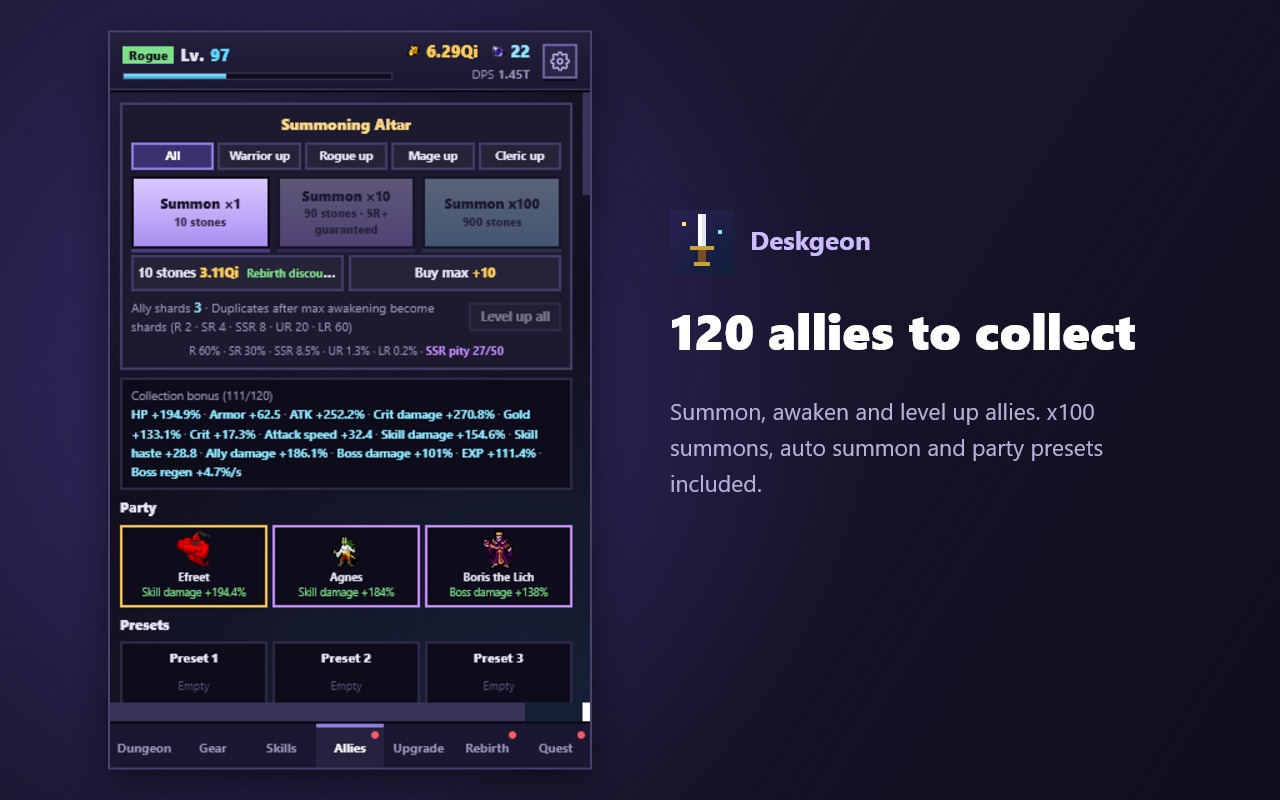
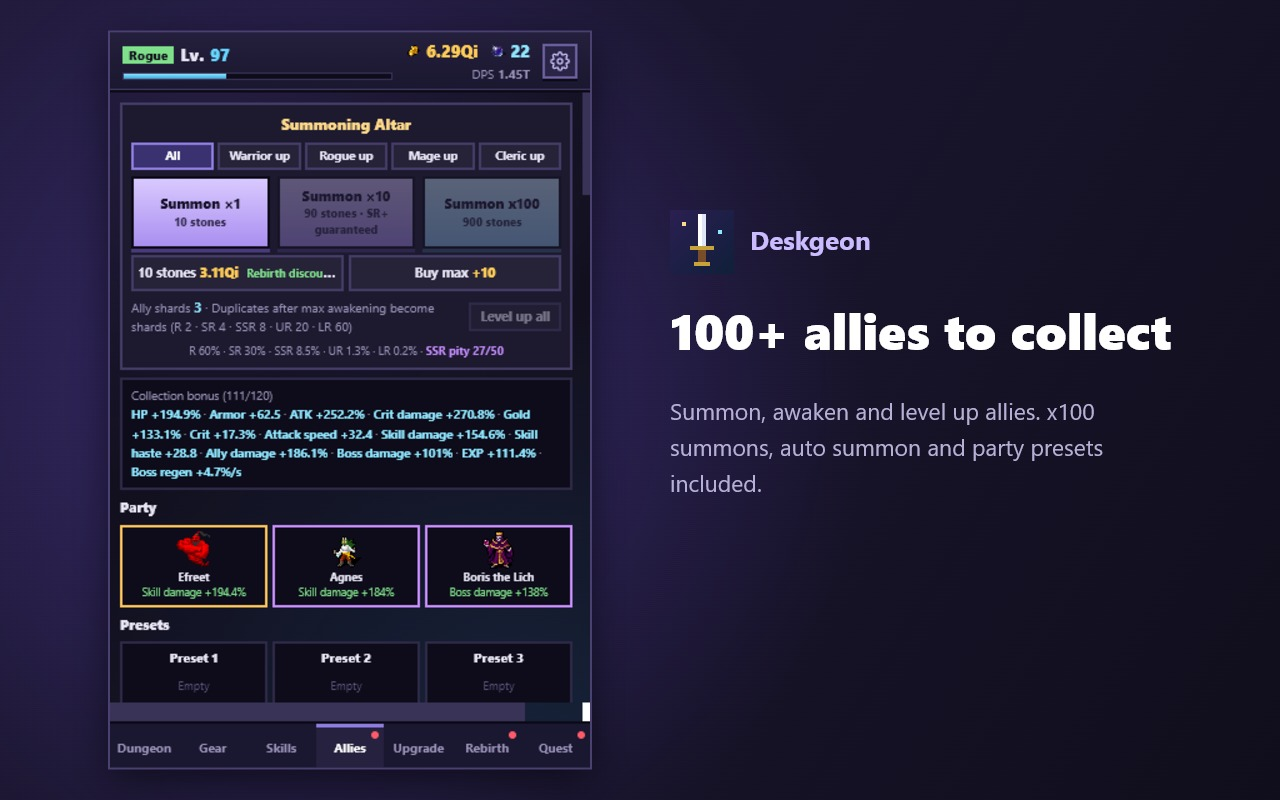
설명·홈페이지: 동료 수를 "100명 이상"으로 표기, 스크린샷 5 문구 수정

Changed region(s): [[0.5938, 0.375, 0.9375, 0.4375], [0.5312, 0.4062, 0.5625, 0.4375]]

diff --git a/docs/index.html b/docs/index.html
@@ -7,7 +7,7 @@
 <link rel="icon" href="img/icon128.png">
 <meta property="og:type" content="website"><meta property="og:site_name" content="Deskgeon">
 <meta property="og:title" content="Deskgeon - Idle Dungeon RPG in your Chrome toolbar">
-<meta property="og:description" content="Free idle dungeon RPG Chrome extension. Pick a class, mutate your skills, summon 120 allies, take on the Daily Dungeon and keep delving while you work.">
+<meta property="og:description" content="Free idle dungeon RPG Chrome extension. Pick a class, mutate your skills, summon 100+ allies, take on the Daily Dungeon and keep delving while you work.">
 <meta property="og:url" content="https://an-yoo.github.io/Deskgeon/"><meta property="og:image" content="https://an-yoo.github.io/Deskgeon/img/shot1.jpg">
 <meta name="twitter:card" content="summary_large_image"><meta name="twitter:title" content="Deskgeon - Idle Dungeon RPG Chrome Extension"><meta name="twitter:image" content="https://an-yoo.github.io/Deskgeon/img/shot1.jpg">
 <script type="application/ld+json">{"@context":"https://schema.org","@type":["VideoGame","SoftwareApplication"],"name":"Deskgeon","alternateName":["Deskgeon - Idle Dungeon RPG","Deskgeon - 방치형 던전 RPG","Deskgeon Chrome extension"],"description":"Deskgeon is a free idle dungeon RPG Chrome extension. A pixel hero lives in your browser toolbar and keeps delving while you work.","url":"https://an-yoo.github.io/Deskgeon/","image":"https://an-yoo.github.io/Deskgeon/img/shot1.jpg","applicationCategory":"GameApplication","operatingSystem":"Chrome, Chromium-based browsers","genre":["Idle","Incremental","RPG","Dungeon crawler"],"gamePlatform":"Chrome extension","inLanguage":["en","ko","ja","zh"],"author":{"@type":"Person","name":"An-Yoo"},"offers":{"@type":"Offer","price":"0","priceCurrency":"USD"},"installUrl":"https://chromewebstore.google.com/detail/deskgeon-idle-dungeon-rpg/adaoggopidkbankjinlalfnjlgncanpk","downloadUrl":"https://chromewebstore.google.com/detail/deskgeon-idle-dungeon-rpg/adaoggopidkbankjinlalfnjlgncanpk","sameAs":["https://chromewebstore.google.com/detail/deskgeon-idle-dungeon-rpg/adaoggopidkbankjinlalfnjlgncanpk","https://github.com/An-Yoo/Deskgeon"]}</script>
@@ -32,7 +32,7 @@ ul.feat{padding-left:20px}ul.feat li{margin:4px 0}.end{text-align:center;margin-
 <p>Deskgeon is a free idle RPG that runs as a Chrome extension. Open the popup and your hero is already fighting through the dungeon. Close it and the adventure goes on: come back after a meeting to collect gold, loot and the floors you cleared. A few seconds between tasks is enough to equip new gear, learn a skill or summon an ally. If you want depth, there are class builds, party composition, legendary unique effects, rebirth and reincarnation.</p>
 <div class="grid">
 <div class="card"><h3>4 classes, 40 skills</h3><p>Warrior, Rogue, Mage and Cleric. Max every skill, then pour leftover points into unlimited Mastery.</p></div>
-<div class="card"><h3>120 allies</h3><p>Five rarities up to 12 Legendary allies. Pity, pickup banners, awakening, ally levels, x100 and auto summon.</p></div>
+<div class="card"><h3>100+ allies</h3><p>Five rarities, all the way up to Legendary. Pity, pickup banners, awakening, ally levels, x100 and auto summon.</p></div>
 <div class="card"><h3>Loot worth chasing</h3><p>8 gear slots, random affixes, 16 legendary unique effects, slot enhancement and set bonuses.</p></div>
 <div class="card"><h3>Three towers</h3><p>Endless, Storm (burst damage) and Iron (survival) towers, three tries each per day.</p></div>
 <div class="card"><h3>Dimensional Rift and Runes</h3><p>Clear rift waves for runes that are never lost, even through rebirth and reincarnation.</p></div>
@@ -51,7 +51,7 @@ ul.feat{padding-left:20px}ul.feat li{margin:4px 0}.end{text-align:center;margin-
 <p>Deskgeon(데스크젼)은 크롬 툴바에서 돌아가는 무료 방치형 RPG예요. 팝업을 열면 용사가 이미 던전을 누비고 있고, 닫아도 모험은 계속돼요. 회의를 마치고 돌아오면 그동안 번 골드와 전리품, 내려간 층을 확인하세요.</p>
 <ul class="feat">
 <li>4가지 직업, 40가지 스킬, 스킬을 다 찍은 뒤의 마스터리</li>
-<li>5등급 120명의 동료(LR 12명), 천장·픽업·각성·동료 레벨, 100회·연속 소환</li>
+<li>5등급 100명 이상의 동료, 천장·픽업·각성·동료 레벨, 100회·연속 소환</li>
 <li>8부위 장비, 전설 고유 효과 16종, 부위 강화와 세트 효과</li>
 <li>무한의 탑·폭풍의 탑·강철의 탑, 하루 3번씩 도전</li>
 <li>차원 균열과 환생·윤회에도 사라지지 않는 룬</li>

diff --git a/README.md b/README.md
@@ -48,8 +48,8 @@
 
 **전투 규칙:** 치명타 확률이 100%를 넘으면 넘는 만큼 2단·3단 치명타가 터집니다. 쿨타임은 **스킬 가속**(쿨타임 = 기본 × 100 / (100 + 가속)), 받는 피해는 **방어력**(받는 피해 = 100 / (100 + 3 × 방어력))으로 계산해 상한 없이 계속 효과가 있습니다.
 
-### 120명의 동료를 소환하고 각성시키세요
-- **R · SR · SSR · UR · LR** 다섯 등급, 총 120명의 동료. 최상위 LR 동료는 12명입니다.
+### 100명 이상의 동료를 소환하고 각성시키세요
+- **R · SR · SSR · UR · LR** 다섯 등급, 100명이 넘는 동료. 최상위 등급은 LR입니다.
 - **천장 시스템**: 50회 안에 SSR 이상 확정. 10연 소환은 SR 이상 1명 보장.
 - **100회 소환 · 연속 소환**: 한 번에 100회를 뽑거나, 10연 결과창에서 연속 소환을 켜 UR 획득·소환석 소진 등 원하는 조건에서 멈추게 할 수 있습니다.
 - **픽업 배너**: 원하는 직업의 동료가 나올 확률을 높일 수 있습니다.
